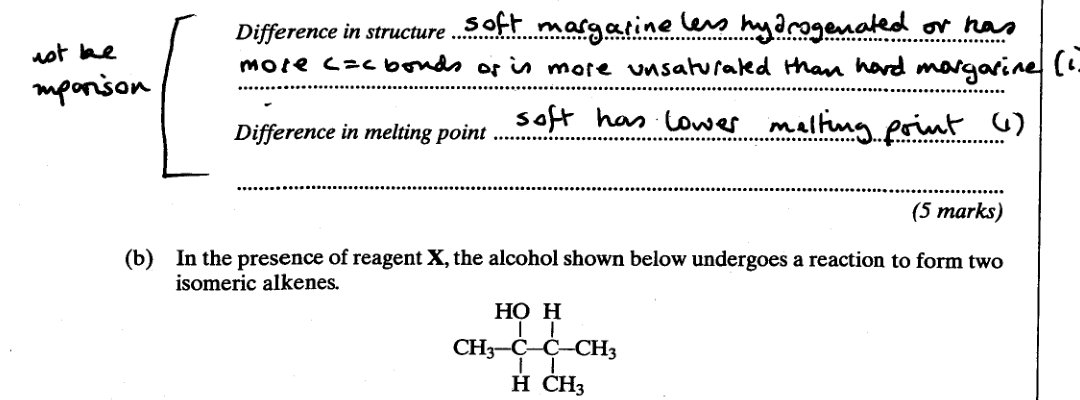
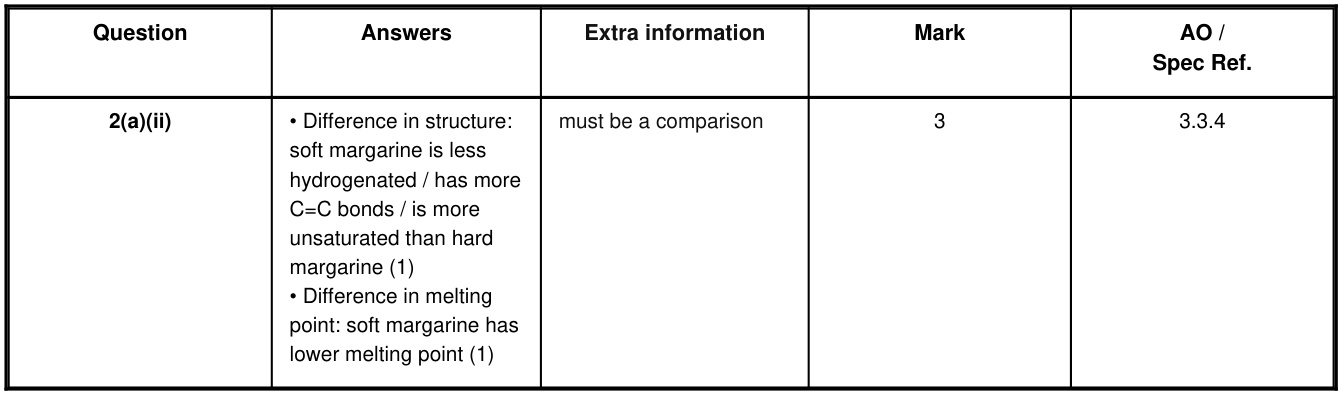
Convert 2002-jan-chm3w handwritten mark schemes to official AQA modern tables

Changed region(s): [[0.0, 0.0, 1.0, 1.0], [0.2139, 0.8832, 0.3667, 0.9442], [0.825, 0.5178, 0.9472, 0.5482]]

diff --git a/tools/convert_2002_jan_chm3w_full.py b/tools/convert_2002_jan_chm3w_full.py
@@ -1,0 +1,189 @@
+"""
+Convert 2002-jan-chm3w markschemes to official AQA modern mark scheme format.
+"""
+import os
+import json
+import sys
+
+SCRATCH_DIR = r"C:\Users\Alexander\.gemini\antigravity\scratch\coolChem"
+sys.path.append(os.path.join(SCRATCH_DIR, "tools"))
+from generate_official_markscheme import render_official_markscheme_image
+
+QUESTIONS_FILE = os.path.join(SCRATCH_DIR, "questions.json")
+
+MS_DATA = {
+    "2002-jan-chm3w-q1a": {
+        "answers": "• Condition: uv light or sunlight or 450 °C or high temp (1)<br>• Explanation: uv light provides energy to break Cl&minus;Cl bond (1)",
+        "extra": "do not accept ref. to E<sub>a</sub> or wrong bond or 'to make Cl radicals'",
+        "mark": 2,
+        "spec": "3.3.2"
+    },
+    "2002-jan-chm3w-q1bi": {
+        "answers": "(Free) radical substitution (1)",
+        "extra": "",
+        "mark": 1,
+        "spec": "3.3.2"
+    },
+    "2002-jan-chm3w-q1bii": {
+        "answers": "• Step 1: initiation (1)<br>• Step 2: propagation (1)<br>• Step 3: termination (1)",
+        "extra": "any order<br>don't be too harsh on spelling",
+        "mark": 3,
+        "spec": "3.3.2"
+    },
+    "2002-jan-chm3w-q1ci": {
+        "answers": "• Equation 1: CH<sub>3</sub>Cl + Cl• &rarr; CH<sub>2</sub>Cl• + HCl (1)<br>• Equation 2: CH<sub>2</sub>Cl• + Cl<sub>2</sub> &rarr; CH<sub>2</sub>Cl<sub>2</sub> + Cl• (1)<br>(or CH<sub>2</sub>Cl• + Cl• &rarr; CH<sub>2</sub>Cl<sub>2</sub>)",
+        "extra": "mark equations independently, any order<br>penalise absence of dot '•' once only",
+        "mark": 2,
+        "spec": "3.3.2"
+    },
+    "2002-jan-chm3w-q1cii": {
+        "answers": "CH<sub>2</sub>Cl• + CH<sub>3</sub>• &rarr; CH<sub>3</sub>CH<sub>2</sub>Cl (1)<br>(or CH<sub>3</sub>CH<sub>2</sub>• + Cl<sub>2</sub> &rarr; CH<sub>3</sub>CH<sub>2</sub>Cl + Cl• / CH<sub>3</sub>CH<sub>2</sub>• + Cl• &rarr; CH<sub>3</sub>CH<sub>2</sub>Cl)",
+        "extra": "equation must have CH<sub>3</sub>CH<sub>2</sub>Cl as product<br>accept C<sub>2</sub>H<sub>5</sub>Cl<br>penalise absence of dot '•' once only",
+        "mark": 1,
+        "spec": "3.3.2"
+    },
+    "2002-jan-chm3w-q2ai": {
+        "answers": "• Reagent: Hydrogen or H<sub>2</sub> (1)<br>• Conditions: Ni (catalyst) and 100&ndash;200 °C / heat (1)",
+        "extra": "conditions: ignore (Pt)<br>not 'high temp', not 'warm'",
+        "mark": 2,
+        "spec": "3.3.4"
+    },
+    "2002-jan-chm3w-q2aii": {
+        "answers": "• Difference in structure: soft margarine is less hydrogenated / has more C=C bonds / is more unsaturated than hard margarine (1)<br>• Difference in melting point: soft margarine has lower melting point (1)",
+        "extra": "must be a comparison",
+        "mark": 3,
+        "spec": "3.3.4"
+    },
+    "2002-jan-chm3w-q2bi": {
+        "answers": "3-methylbutan-2-ol (1)",
+        "extra": "no alternatives",
+        "mark": 1,
+        "spec": "3.3.5"
+    },
+    "2002-jan-chm3w-q2bii": {
+        "answers": "elimination or dehydration (1)",
+        "extra": "",
+        "mark": 1,
+        "spec": "3.3.5"
+    },
+    "2002-jan-chm3w-q2biii": {
+        "answers": "(conc) H<sub>2</sub>SO<sub>4</sub> or (conc) H<sub>3</sub>PO<sub>4</sub> (1)",
+        "extra": "name or correct formula",
+        "mark": 1,
+        "spec": "3.3.5"
+    },
+    "2002-jan-chm3w-q2biv": {
+        "answers": "• Alkene 1: CH<sub>2</sub>=CH&minus;CH(CH<sub>3</sub>)<sub>2</sub> (3-methylbut-1-ene) (1)<br>• Alkene 2: CH<sub>3</sub>&minus;CH=C(CH<sub>3</sub>)<sub>2</sub> (2-methylbut-2-ene) (1)",
+        "extra": "double bond must be shown<br>accept any correct unambiguous structures<br>if but-1-ene and but-2-ene offered, allow M2",
+        "mark": 2,
+        "spec": "3.3.4, 3.3.5"
+    },
+    "2002-jan-chm3w-q3a": {
+        "answers": "• Electrophile: electron-pair acceptor / electron-deficient species / electron-seeking species (1)<br>• Addition: reaction which increases number of substituents / converts double bond to single bond / where two molecules form one molecule (1)",
+        "extra": "for species accept atom, molecule, ion<br>not '+' ion, not 'attracted to − charge'",
+        "mark": 2,
+        "spec": "3.3.4"
+    },
+    "2002-jan-chm3w-q3b": {
+        "answers": "• (high) electron-dense / electron-rich C=C bond (or &pi; bond / 4e<sup>&minus;</sup> between carbons) (1)<br>• causes induced dipole in Br<sub>2</sub> (1)",
+        "extra": "not just 'C=C'<br>ignore refs to 'temporary'<br>can score M2 from &delta;+/&delta;&minus; on Br<sub>2</sub> in (c) unless contradicting error in (b)",
+        "mark": 2,
+        "spec": "3.3.4"
+    },
+    "2002-jan-chm3w-q3c": {
+        "answers": "• Mechanism (4 marks):<br>&nbsp;&nbsp;M1: curly arrow from C=C bond to Br (1)<br>&nbsp;&nbsp;M2: curly arrow from Br&minus;Br bond to Br (1)<br>&nbsp;&nbsp;M3: structure of secondary carbocation H<sub>2</sub>C(Br)&minus;CH<sup>+</sup>&minus;CH<sub>3</sub> (1)<br>&nbsp;&nbsp;M4: curly arrow from lone pair on :Br<sup>&minus;</sup> to C<sup>+</sup> (1)<br>• Name of product: 1,2-dibromopropane (1)",
+        "extra": "if incorrect alkene, lose M3 (wrong cation)<br>mark M4 consequentially on M3",
+        "mark": 5,
+        "spec": "3.3.4"
+    },
+    "2002-jan-chm3w-q3d": {
+        "answers": "addition (1)",
+        "extra": "not 'additional'",
+        "mark": 1,
+        "spec": "3.3.4"
+    },
+    "2002-jan-chm3w-q4ai": {
+        "answers": "• Type of reaction: reduction / (nucleophilic) addition / hydrogenation (1)<br>• Reagent Y: sodium borohydride / NaBH<sub>4</sub> / H<sub>2</sub> (1)",
+        "extra": "not NaBH<sub>4</sub> for hydrogenation",
+        "mark": 2,
+        "spec": "3.3.8, 3.3.5"
+    },
+    "2002-jan-chm3w-q4aii": {
+        "answers": "CH<sub>3</sub>CH<sub>2</sub>CH<sub>2</sub>CHO + [O] &rarr; CH<sub>3</sub>CH<sub>2</sub>CH<sub>2</sub>COOH (1)",
+        "extra": "accept [O] over arrow<br>accept C<sub>3</sub>H<sub>7</sub>CHO &rarr; C<sub>3</sub>H<sub>7</sub>COOH",
+        "mark": 1,
+        "spec": "3.3.8, 3.3.9"
+    },
+    "2002-jan-chm3w-q4bi": {
+        "answers": "• (compounds) with same molecular formula (or same number & type of atoms) (1)<br>• with atoms arranged in different functional groups (or in different classes of compounds) (1)",
+        "extra": "second mark tied to first",
+        "mark": 2,
+        "spec": "3.3.1"
+    },
+    "2002-jan-chm3w-q4bii": {
+        "answers": "butanone or CH<sub>3</sub>COCH<sub>2</sub>CH<sub>3</sub> (1)",
+        "extra": "or tetrahydrofuran / cyclic ether or other acceptable structure",
+        "mark": 1,
+        "spec": "3.3.1, 3.3.8"
+    },
+    "2002-jan-chm3w-q4ci": {
+        "answers": "• Empirical formula: simplest ratio of atoms of each element in the compound or molecule (1)<br>• Molecular formula: (actual) number of atoms of each element present in a compound or molecule (1)",
+        "extra": "",
+        "mark": 2,
+        "spec": "3.1.2, 3.3.1"
+    },
+    "2002-jan-chm3w-q4cii": {
+        "answers": "• C: 62.07 / 12 = 5.17, H: 10.34 / 1 = 10.34, O: 27.59 / 16 = 1.72 (1)<br>• ratio C : H : O = 3 : 6 : 1 &rArr; Empirical formula = C<sub>3</sub>H<sub>6</sub>O (1)<br>• Molecular formula = (116 / 58 &times; C<sub>3</sub>H<sub>6</sub>O) = C<sub>6</sub>H<sub>12</sub>O<sub>2</sub> (1)",
+        "extra": "if correct answer, working not essential",
+        "mark": 3,
+        "spec": "3.1.2, 3.3.1"
+    },
+    "2002-jan-chm3w-q5a": {
+        "answers": "• Name of mechanism: nucleophilic substitution (1)<br>• Mechanism (4 marks):<br>&nbsp;&nbsp;M1: curly arrow from lone pair on :NH<sub>3</sub> to C (1)<br>&nbsp;&nbsp;M2: curly arrow from C&minus;Br bond to Br (1)<br>&nbsp;&nbsp;M3: intermediate structure showing + charge on N (1)<br>&nbsp;&nbsp;M4: curly arrow from N&minus;H bond to N<sup>+</sup> (or loss of H<sup>+</sup> by attack of :NH<sub>3</sub>) (1)",
+        "extra": "M3 is for correct intermediate - if used wrong halogenoalkane lose M3<br>wrong dipole loses C&minus;Br mark<br>mark S<sub>N</sub>1 using same points",
+        "mark": 5,
+        "spec": "3.3.3, 3.3.11"
+    },
+    "2002-jan-chm3w-q5b": {
+        "answers": "• Role of potassium hydroxide: Base (1)<br>• Mechanism (4 marks):<br>&nbsp;&nbsp;M1: curly arrow from lone pair on :OH<sup>&minus;</sup> to H on adjacent carbon (1)<br>&nbsp;&nbsp;M2: curly arrow from C&minus;H bond to C&minus;C bond (1)<br>&nbsp;&nbsp;M3: curly arrow from C&minus;Br bond to Br (1)<br>&nbsp;&nbsp;M4: structure of propene CH<sub>3</sub>CH=CH<sub>2</sub> (1)",
+        "extra": "mark E1 using same points",
+        "mark": 5,
+        "spec": "3.3.3"
+    }
+}
+
+def main():
+    with open(QUESTIONS_FILE, "r", encoding="utf-8") as f:
+        db = json.load(f)
+
+    updated_count = 0
+    for q in db["questions"]:
+        qid = q.get("id")
+        if qid in MS_DATA:
+            data = MS_DATA[qid]
+            q_num = q.get("question", "")
+            img_rel = q.get("markscheme", f"img/2002-jan-chm3w/ms_{qid.split('-')[-1]}.jpg")
+            img_path = os.path.join(SCRATCH_DIR, img_rel.replace("/", os.sep))
+            
+            print(f"Generating MS for {qid} ({q_num}) -> {img_path}")
+            render_official_markscheme_image(
+                question_label=q_num,
+                answers_html=data["answers"],
+                extra_html=data["extra"],
+                marks=data["mark"],
+                spec_ref=data["spec"],
+                output_path=img_path
+            )
+            
+            clean_ans = data["answers"].replace("<br>", "\n").replace("&rarr;", "->").replace("&frac12;", "1/2").replace("•", "-")
+            clean_ext = data["extra"].replace("<br>", "\n")
+            q["markscheme_text"] = f"{clean_ans}\n\n[Extra Information]:\n{clean_ext}" if clean_ext else clean_ans
+            updated_count += 1
+
+    with open(QUESTIONS_FILE, "w", encoding="utf-8") as f:
+        json.dump(db, f, indent=2, ensure_ascii=False)
+
+    print(f"Successfully updated {updated_count} questions for 2002-jan-chm3w!")
+
+if __name__ == "__main__":
+    main()
